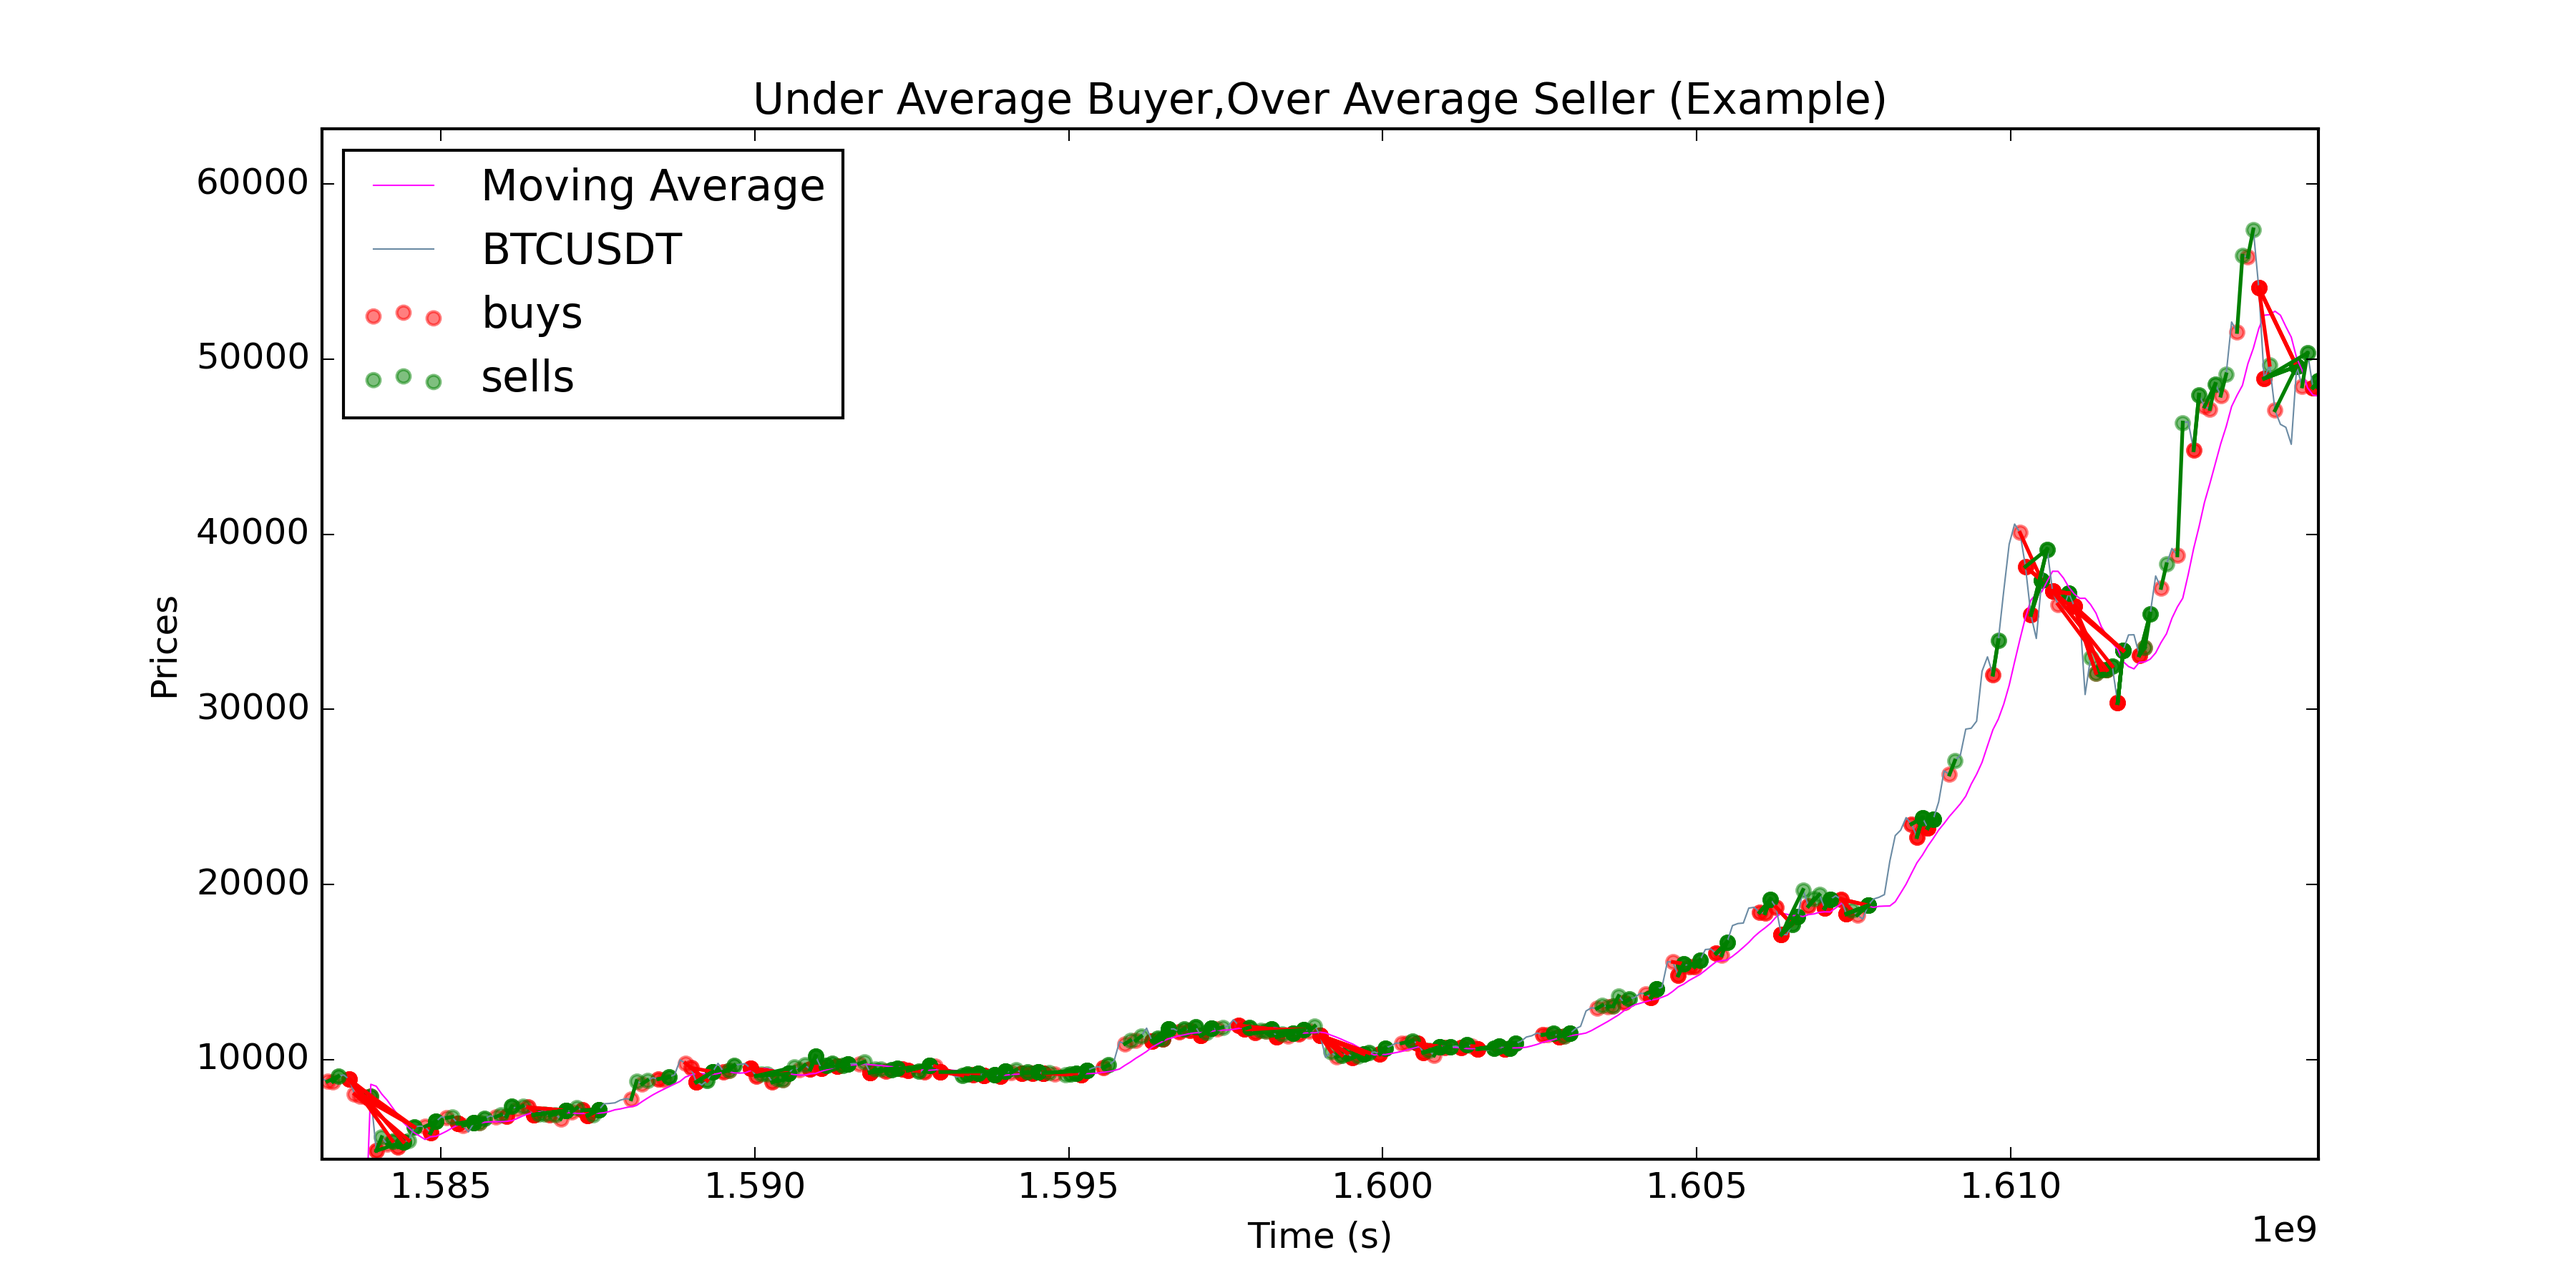
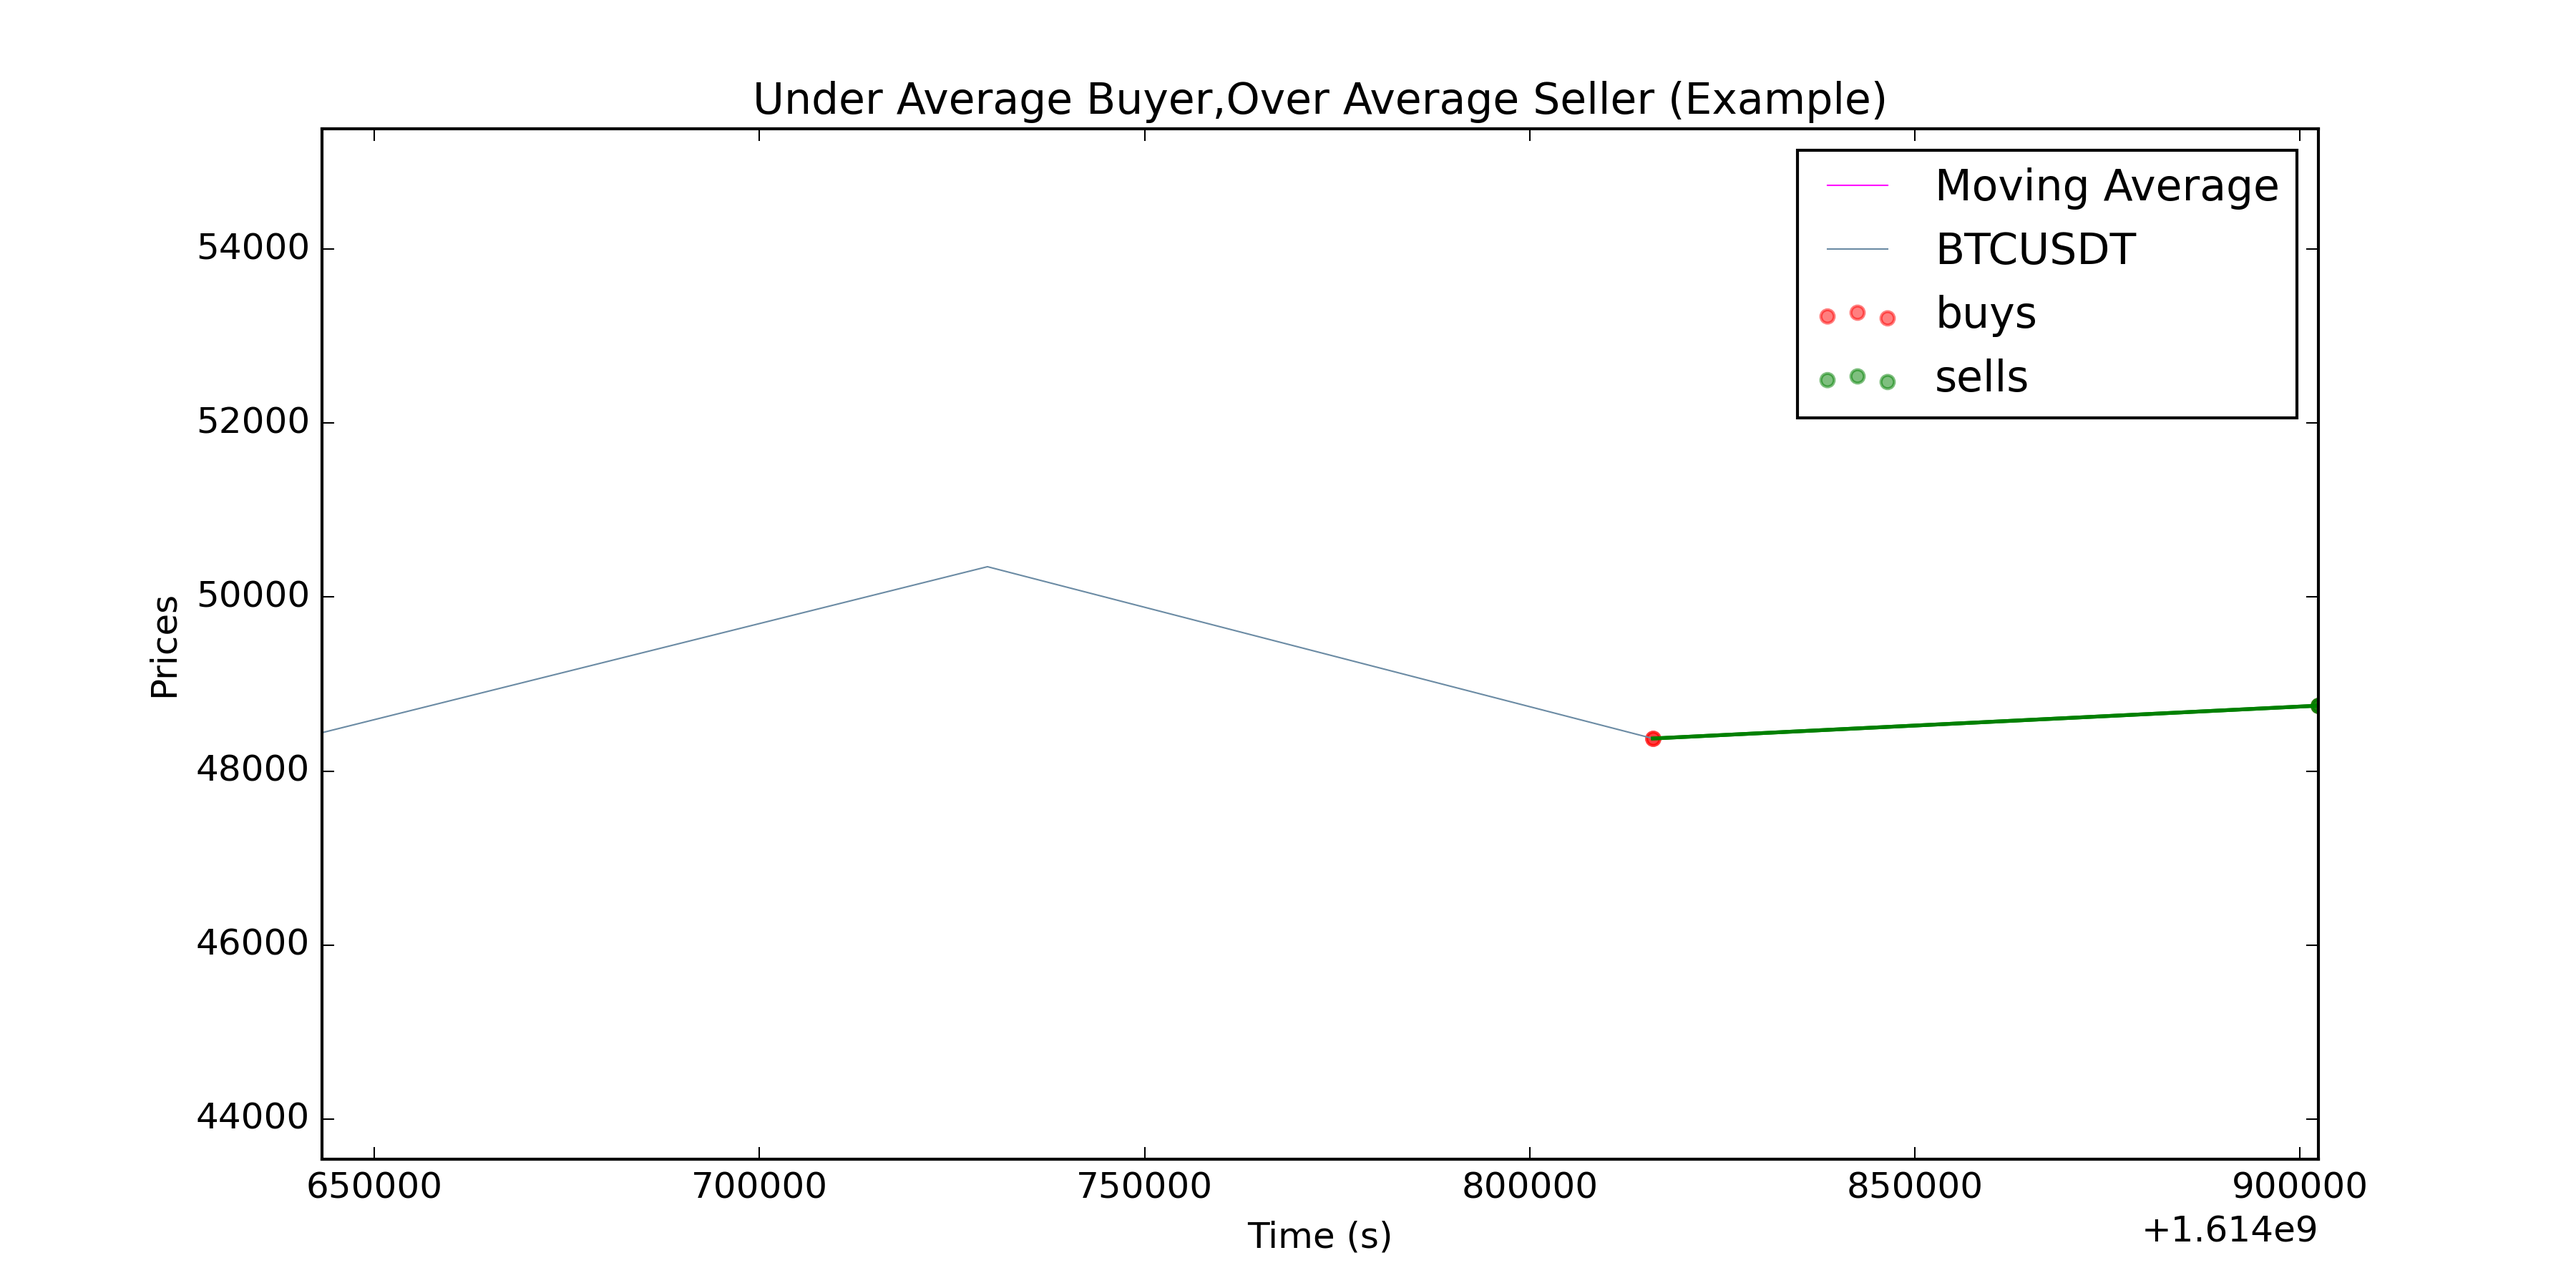
no clue here

diff --git a/algofinance/backtester/strategy_example.py b/algofinance/backtester/strategy_example.py
@@ -6,8 +6,9 @@ Created on Sat Apr  3 08:10:57 2021
 @author: maxmhuggins
 """
 
+from algofinance.generalanalysis.datareader import DataReader as dr
 import backtester as bt
-import datareader as dr
+# import datareader as dr
 import matplotlib.pyplot as plt
 
 
@@ -81,7 +82,7 @@ class ExampleStrategy:
 
 
 if __name__ == '__main__':
-    start = '2020-03-02'
+    start = '2021-03-02'
     end = '2021-03-05'
     symbol = 'BTCUSDT'
     dates = (start, end)
